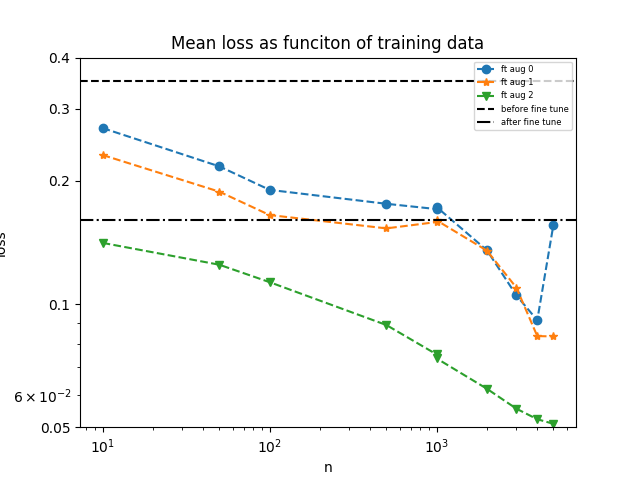
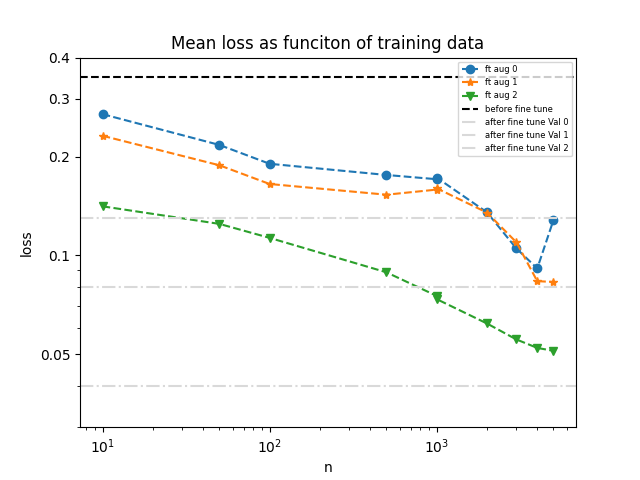
smale changes to plot functions

diff --git a/plot/polt_box_plot.py b/plot/polt_box_plot.py
@@ -109,11 +109,26 @@ ax.set_xlabel('n')
 ax.set_ylabel('loss')
 ax.set_title('Mean loss as funciton of training data')
 #mean_mse = [np.median(mse) for mse in mse_list_0]
-#mean_mse_ut = [np.median(mse) for mse in mse_list_ut_0]
-mean_mse_ft_aug_0 = [np.nanmean(mse) for mse in mse_list_f_aug_0]
-mean_mse_ft_aug_1 = [np.nanmean(mse) for mse in mse_list_f_aug_1]
-mean_mse_ft_aug_2 = [np.nanmean(mse) for mse in mse_list_f_aug_2]
-#mean_mse_ut_aug = [np.median(mse) for mse in mse_list_ut_aug_0]
+#mean_mse_ut = [np.median(mse) for mse in mse_list_ut_0
+mse_ft_aug_0 = []
+mse_ft_aug_1 = []
+mse_ft_aug_2 = []
+
+for i in range(len(target_list_f_aug_0)):
+    temp_mse_0 = []
+    temp_mse_1 = []
+    temp_mse_2 = []
+    for j in range(len(target_list_f_aug_0[i])):
+        temp_mse_0.append(np.nanmean(np.square(target_list_f_aug_0[i][j] - prediction_list_f_aug_0[i][j])))
+        temp_mse_1.append(np.nanmean(np.square(target_list_f_aug_1[i][j] - prediction_list_f_aug_1[i][j])))
+        temp_mse_2.append(np.nanmean(np.square(target_list_f_aug_2[i][j] - prediction_list_f_aug_2[i][j])))
+    mse_ft_aug_0.append(temp_mse_0)
+    mse_ft_aug_1.append(temp_mse_1)
+    mse_ft_aug_2.append(temp_mse_2)
+
+mean_mse_ft_aug_0 = [np.nanmean(mse) for mse in mse_ft_aug_0]
+mean_mse_ft_aug_1 = [np.nanmean(mse) for mse in mse_ft_aug_1]
+mean_mse_ft_aug_2 = [np.nanmean(mse) for mse in mse_ft_aug_2]
 
 ax.plot(n_list, mean_mse_ft_aug_0, label='ft aug 0', linestyle='--', marker='o')
 ax.plot(n_list, mean_mse_ft_aug_1, label='ft aug 1', linestyle='--', marker='*')
@@ -121,10 +136,12 @@ ax.plot(n_list, mean_mse_ft_aug_2, label='ft aug 2', linestyle='--', marker='v')
 
 # add horizontal line at 0.35
 ax.axhline(y=0.35, color='k', linestyle='--', label='before fine tune')
-ax.axhline(y=0.16, color='k', linestyle='dashdot', label='after fine tune')
+ax.axhline(y=0.13, color='k', linestyle='dashdot', label='after fine tune Val 0', c='0.85')
+ax.axhline(y=0.08, color='k', linestyle='dashdot', label='after fine tune Val 1', c='0.85')
+ax.axhline(y=0.04, color='k', linestyle='dashdot', label='after fine tune Val 2', c='0.85')
 
 # make y axis limit between 0.05 and 0.4 and make labeling not scientific
-ax.set_ylim(0.05, 0.4)
+ax.set_ylim(0.03, 0.4)
 ax.set_yticks([0.05, 0.1, 0.2, 0.3, 0.4])
 ax.set_yticklabels(['0.05', '0.1', '0.2', '0.3', '0.4'])
 # add a legend

diff --git a/plot/plot_line_tuning_mult.py b/plot/plot_line_tuning_mult.py
@@ -258,6 +258,28 @@ if __name__ == '__main__':
     print('length val_predction_0: ' + str(len(val_predction_0)))
     print('length val_predction_1: ' + str(len(val_predction_1)))
     print('length val_predction_2: ' + str(len(val_predction_2)))
+
+    print('MSE of COSMO SAC2002: ' + str(np.mean((cosmo_sac_data_target - cosmo_sac_data_prediction1)**2)))
+    print('MSE of COSMO SACdsp: ' + str(np.mean((cosmo_sac_data_target - cosmo_sac_data_prediction3)**2)))
+    print('MSE of COSMO: ' + str(np.mean((cosmo_data_target - cosmo_data_prediction)**2)))
+    print('MSE of UNIFAC: ' + str(np.mean((UNIFAC_data_target - UNIFAC_data_prediction)**2)))
+    print('MSE of Damay: ' + str(np.mean((damay_data_target - damay_data_prediction)**2)))
+
+    print('MSE of VAL_0: ' + str(np.mean((val_target_0 - val_predction_0)**2)))
+    print('MSE of VAL_1: ' + str(np.mean((val_target_1 - val_predction_1)**2)))
+    print('MSE of VAL_2: ' + str(np.mean((val_target_2 - val_predction_2)**2)))
+    # calcualte the mean absolute error
+    print('MEA of COSMO SAC2002: ' + str(np.mean(np.abs(cosmo_sac_data_target - cosmo_sac_data_prediction1))))
+    print('MEA of COSMO SACdsp: ' + str(np.mean(np.abs(cosmo_sac_data_target - cosmo_sac_data_prediction3))))
+    print('MEA of COSMO: ' + str(np.mean(np.abs(cosmo_data_target - cosmo_data_prediction))))
+    print('MEA of UNIFAC: ' + str(np.mean(np.abs(UNIFAC_data_target - UNIFAC_data_prediction))))
+    print('MEA of Damay: ' + str(np.mean(np.abs(damay_data_target - damay_data_prediction))))
+
+    print('MEA of VAL_0: ' + str(np.mean(np.abs(val_target_0 - val_predction_0))))
+    print('MEA of VAL_1: ' + str(np.mean(np.abs(val_target_1 - val_predction_1))))
+    print('MEA of VAL_2: ' + str(np.mean(np.abs(val_target_2 - val_predction_2))))
+    
+
     
     color_list = ['lightcoral', 'indianred', 'brown', 'red', 'coral','lightsteelblue', 'cornflowerblue', 'royalblue']
     name_list = ['COSMO-SAC$_{2002}$', 'COSMO-SAC$_{dsp}$', 'COSMO-RS$_{TZVDP-F}$', 'UNIFAC$_{Dortmund}$', '\emph{Damay et al. 2021*}','SMILE2P$_{val_0}$', 'SMILE2P$_{val_1}$', 'SMILE2P$_{val_2}$']

diff --git a/misc/simple_evaluation_utils.py b/misc/simple_evaluation_utils.py
@@ -23,7 +23,13 @@ class gamma_dataset(Dataset):
 
     def load_data(self,data):
 
-        target = torch.from_numpy(data["lnGamma"].to_numpy()).float()
+        # check if collum lnGamma exists
+        if 'lnGamma' in data.columns:
+            target = torch.from_numpy(data["lnGamma"].to_numpy()).float()
+        else: 
+            # concatenate lnGamma_1 and lnGamma_2 with width 2 
+            target = torch.from_numpy(np.stack((data["lnGamma_1"].to_numpy(), data["lnGamma_2"].to_numpy()), axis=1)).float()
+            
         smile_index = torch.from_numpy(data[["solute_idx","solvent_idx"]].to_numpy()).int()
         xT = torch.from_numpy(data[["x","T"]].to_numpy()).float()
         index = torch.from_numpy(data["i"].to_numpy()).int()
@@ -71,19 +77,20 @@ class gamma_dataset(Dataset):
         return self.data.shape[0]
 
 
-def smile2input(solvent,solute,x,T):
+def smile2input_NRTL(solvent,solute,x,T):
     
     vocab_path = '../vocab/'
     vocab_dict = load_vocab(vocab_path,'vocab_dict_aug')
 
-    df = pd.DataFrame(columns=['solvent','solute','lnGamma','x','T'])
+    df = pd.DataFrame(columns=['solvent','solute','lnGamma_1', 'lnGamma_2','x','T'])
 
     for x_i in x:
         for T_j in T:
-            df = df.append({'solvent':solvent, 'solute':solute, 'lnGamma':0, 'x':x_i, 'T':T_j, 'i': 0}, ignore_index=True)
+            df = df.append({'solvent':solvent, 'solute':solute, 'lnGamma_1':0, 'lnGamma_2':0, 'x':x_i, 'T':T_j, 'i': 0}, ignore_index=True)
     
     df.reset_index(drop=False, inplace=True)
-    df.lnGamma = df.lnGamma.astype(float)
+    df.lnGamma_1 = df.lnGamma_1.astype(float)
+    df.lnGamma_2 = df.lnGamma_2.astype(float)
     df.x = df.x.astype(float)
     df.T = df['T'].astype(float)
     df.i = df['i'].astype(int)

diff --git a/misc/simple_evaluation.py b/misc/simple_evaluation.py
@@ -23,16 +23,15 @@ model_name =  '220118-040417'
 device = 'cuda'
 #device = 'cpu'
 
-solvent = "CC(=O)C"
-solute = "c1ccccc1C"
+solvent = "0"
+solute = "C=O"
 
 T = 298.15
 
 x = np.linspace(0, 1, num=20)
 T = np.linspace(T, T, 1)
 
-data_loader_solute = smile2input(solute, solvent, x ,T)
-data_loader_solvent = smile2input(solvent, solute, 1-x ,T)
+data_loader_solute = smile2input_NRTL(solute, solvent, x ,T)
 # %% Load model
 
 model, config = load_model(model_path,model_name)
@@ -42,19 +41,15 @@ criterion = nn.MSELoss()
 # time evaluation
 start = time.time()
 __, gamma_solute, __, __ = evaluate(model, data_loader_solute, criterion, config)
-__, gamma_solvent, __, __ = evaluate(model, data_loader_solvent, criterion, config)
-gamma_solvent = np.flip(gamma_solvent)
-
-mean = (gamma_solute + np.flip(gamma_solvent)) / 2
 end = time.time()
 print("Evaluation time: ", end - start)
-
+gamma_solute = np.reshape(gamma_solute, (int(len(gamma_solute)/2),2))
 
 # plot train out over x 
 fig, ax = plt.subplots()
 # use dashed lines
-ax.plot(x, gamma_solute, 'r--', label='solute')
-ax.plot(1-x, gamma_solvent, 'b--', label='solvent')
+ax.plot(x, gamma_solute[:,0], 'r--', label='solute')
+ax.plot(x, gamma_solute[:,1], 'b--', label='solvent')
 
 
 ax.set_title(str(T[0]) + " K")

diff --git a/run_fine_tune_single_D.py b/run_fine_tune_single_D.py
@@ -1,0 +1,42 @@
+import os
+import datetime
+now = datetime.datetime.now()
+now_str = now.strftime("%Y-%m-%d%H:%M:%S")
+# remove spaces from now_str
+now_str = now_str.replace(" ", "_")
+
+model = '211220-192228'
+model = 'untrained_model'
+model = '211220-192228'
+
+aug = 1 # 0: no aug, 1: aug
+lval_int = 0
+lval = 1
+
+comand_s = 'xp run /home/bene/NNGamma/src/xprun_fine_mult.ron -p 2 --include-dirty' 
+comand_e = ' -- -m ' + model + ' -l 1e-4 -x 200 '
+
+epo = int(50)
+now_str = now.strftime("%Y%m%d-%H%M%S")[2:]
+
+
+n_split = 77
+
+path = 'data_D_noH2O_' + str(n_split) + '_V2'
+
+save_path = 'f_t_'
+
+save_path = save_path + model + '_' + now_str
+group = str(n_split) + '_' + now_str
+        
+
+for i in range(0,n_split):
+    if lval_int != 0:
+        if i % lval_int == 0:
+            lval = 1
+    now_str = now.strftime("%Y%m%d-%H%M%S")[2:]
+    xp_name = save_path + '_' + str(i)
+    comand = comand_s + ' --name=' + xp_name + comand_e + '-p ' + path + ' -ow ' + str(1) + ' -e '
+    comand = comand + str(epo) + ' -n ' + save_path + ' -g ' + group + ' -s ' + str(i) + ' -lval ' + str(lval)
+    comand = comand + ' -w DNN_FT' + ' -b 128'
+    os.system(comand)

diff --git a/data_processing/split_data.py b/data_processing/split_data.py
@@ -1,0 +1,30 @@
+import numpy as np
+import pandas as pd
+import os
+import progressbar as pb
+
+import data_processing as dp
+
+# Function to take data with two outputs and convert it to a single output
+folder_name = ["x_cosmo"]
+vocab_path = "vocab"
+save_path = "x_cosmo_split/cosmo_data_0"
+
+file_path, file_out, vocab_path, alias_path  =  dp.get_paths(save_path, vocab_path) 
+df_join, comp_list, solvent_indx, solute_indx  = dp.load_exp_data(file_path, folder_name)
+df_2 = df_join.copy()
+
+# rename the column lnGamma_1 to lnGamma
+df_join.rename(columns={'lnGamma_1':'lnGamma'}, inplace=True)
+# drop column lnGamma_2
+df_join.drop(columns=['lnGamma_2'], inplace=True)
+df_2.rename(columns={'lnGamma_2':'lnGamma'}, inplace=True)
+df_2.rename(columns={'solvent':'temp'}, inplace=True)
+df_2.rename(columns={'solute':'solvent'}, inplace=True)
+df_2.rename(columns={'temp':'solute'}, inplace=True)
+df_2.drop(columns=['lnGamma_1'], inplace=True)
+df_2.x = 1 - df_2.x
+
+df_new = df_join.append(df_2, ignore_index=True)
+
+df_new.to_csv(os.path.join(file_path,save_path), index=False)

diff --git a/data_processing/data_processing.py b/data_processing/data_processing.py
@@ -31,12 +31,12 @@ from pandas.core.frame import DataFrame
 def main(file_path, save_path, vocab_path, ul, ll, frac, aug, max_aug,seed, ow, h2o, source):
     processing(file_path, save_path, vocab_path, ul, ll, frac, aug, max_aug, seed, ow, h2o, source)
 
-def processing(foler_name, save_path, vocab_path, ul, ll, frac, aug, max_aug, seed, ow, h2o, source):
+def processing(folder_name, save_path, vocab_path, ul, ll, frac, aug, max_aug, seed, ow, h2o, source):
     
     file_path, file_out, vocab_path, alias_path  =  get_paths(save_path, vocab_path) 
 
     vocab_dict = load_vocab(vocab_path,'vocab_dict_aug')
-    df_join, comp_list, solvent_indx, solute_indx  = load_exp_data(file_path, foler_name)
+    df_join, comp_list, solvent_indx, solute_indx  = load_exp_data(file_path, folder_name)
         
     comp_list = aug_data(comp_list, alias_path=alias_path)
     

diff --git a/data_processing/mult_split_n_out.py b/data_processing/mult_split_n_out.py
@@ -4,12 +4,12 @@ import os
 from numpy.random import default_rng
 ## function to create multiple splits of the data
 
-file_path = ["brouwer_exp_c"]
+file_path = ["D"]
 vocab_path = "vocab"
 ow = True
 
 exclude_H2O = True
-only_H2O = False 
+only_H2O = False
 
 
 data_path = '../data/'
@@ -23,8 +23,9 @@ index_list = np.arange(0,n_unique)
 if exclude_H2O:
     h2o_index = systems[(systems.solvent == 'O') | (systems.solute == 'O')].index
     index_list = np.setdiff1d(index_list, h2o_index)
-    num_splits = 1000
+    num_splits = 77
     save_path = "data_exp_noH2O_" + str(num_splits)  + '_V2'
+    save_path = "data_D_noH2O_" + str(num_splits)  + '_V2'
 elif only_H2O:
     index_list = systems[systems.solvent == 'O'].index
     index_list = np.array(index_list)

diff --git a/transprop/trainer.py b/transprop/trainer.py
@@ -77,9 +77,12 @@ def train(model, criterion, optimizer, train_dataloader, val_dataloader_list, sc
                     output = model(smile, xt) 
                     loss = criterion(output.squeeze(), target.squeeze())
                     loss = loss / len(target_chunks)
+                    # check if loss is nan
+                    if math.isnan(loss.item()):
+                        pass
 
             if wandb.config.mode == 'NRTL':
-                with autocast(True):
+                with autocast(False):
                     #xt = xt.type(torch.half)
                     output = model(smile, xt) 
                     loss = custom_MSE_loss(output, target.squeeze())

diff --git a/transprop/nn_dataloader.py b/transprop/nn_dataloader.py
@@ -24,10 +24,11 @@ class gamma_dataset(Dataset):
     def load_comp_list(self, comp_list_file):
          
         comp_list = pd.read_csv(self.data_path + 'comp_list.csv')
-        emb_list = np.empty((comp_list.shape[0],10), dtype=object)
+        n_emb = int((comp_list.shape[1]-1) / 2)
+        emb_list = np.empty((comp_list.shape[0],n_emb), dtype=object)
 
         for i in range(0, comp_list.shape[0]):
-            for j in range(0,10):   
+            for j in range(0,n_emb):   
                 temp = comp_list['emb' + str(j)][i]
                 if str(temp) != 'nan':
                     emb_list[i,j] = np.fromstring(temp[1:-1], sep=" ", dtype=np.int)

diff --git a/fine_tune_mult.py b/fine_tune_mult.py
@@ -20,7 +20,7 @@ from transprop.config import *
 @click.command()
 
 @click.option('--model_name', '-m', default='211220-192228', help='Name of the model')
-@click.option('--data_path', '-p',default='data_exp', help='Path to the data')
+@click.option('--data_path', '-p',default='data_D_noH2O_77_V2', help='Path to the data')
 @click.option('--exp_name', '-n',default='', help='Name of the experiment')
 @click.option('--group', '-g', default='none', help='groups for the experiment')
 @click.option('--n_start', '-s', default=-1, help='set to be processed if -1 all')

diff --git a/plot/calc_and_plot.py b/plot/calc_and_plot.py
@@ -19,7 +19,7 @@ from transprop.nn_dataloader import *
 @click.command()
 
 @click.option('--name','-n', default='211220-192228', help='Name of the modle')
-@click.option('--data','-d', default='data_exp_n/n_3000/4/', help='Path to the data if empty use datapath from modle config')
+@click.option('--data','-d', default='data_exp', help='Path to the data if empty use datapath from modle config')
 
 @click.option('--calc','-c', default=True, help='Calculate results and eval')
 @click.option('--plot','-p', default=True, help='Plot results')
